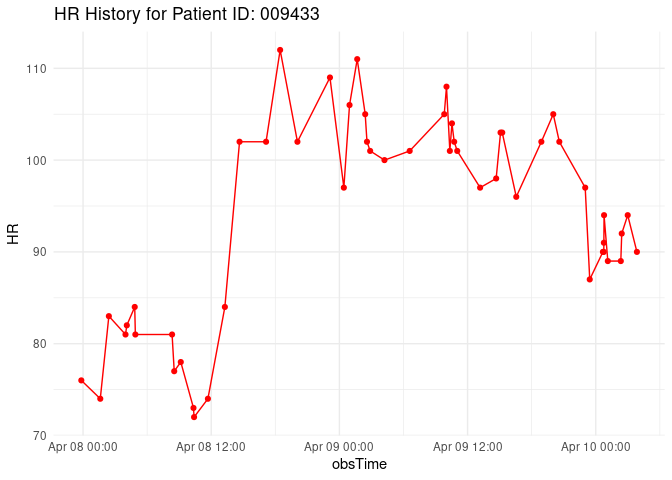
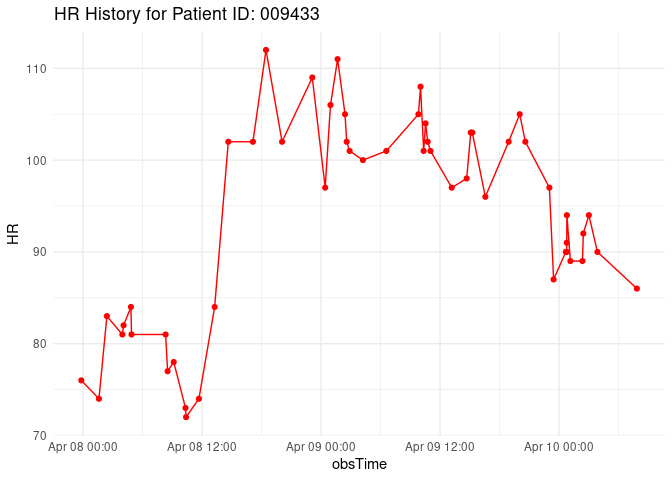
Updated report

diff --git a/sepsis_v2.md b/sepsis_v2.md
@@ -10,7 +10,7 @@ Sepsis Assignment
 
 #### The date and time of the report
 
-    Hello! The last time the report was run: 2023-04-10 07:13:21
+    Hello! The last time the report was run: 2023-04-10 08:18:07
 
 #### Recent heart rate, temperature, and respiratory rate for patients who currently have sepsis
 
@@ -32,7 +32,7 @@ table1
 |:-----------|-----------:|-----:|------------:|:--------------------|
 | 000714     |         84 |   NA |          19 | 2023-04-08 17:48:46 |
 | 001948     |         84 |   NA |          25 | 2023-04-08 22:43:12 |
-| 009433     |         90 |   NA |          29 | 2023-04-10 03:51:16 |
+| 009433     |         86 | 37.5 |          29 | 2023-04-10 07:50:07 |
 
 #### Plots for all patients who have sepsis that show the complete history of their heart rate, temperature, and respiratory rate during their time in the ICU.
 
@@ -216,7 +216,7 @@ mutate(prev_HR = lag(HR, order_by = obsTime),
 | 009312    |        NA |          NA |          NA |
 | 009429    |        NA |          NA |           2 |
 | 009429    |        NA |          NA |          NA |
-| 009433    |        -4 |          NA |          -3 |
+| 009433    |        -4 |          NA |           0 |
 | 009433    |        NA |          NA |          NA |
 | 009454    |        -3 |          NA |          -9 |
 | 009454    |        NA |          NA |          NA |
